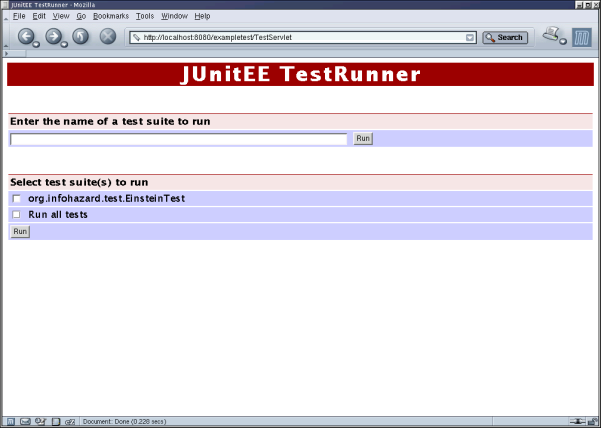
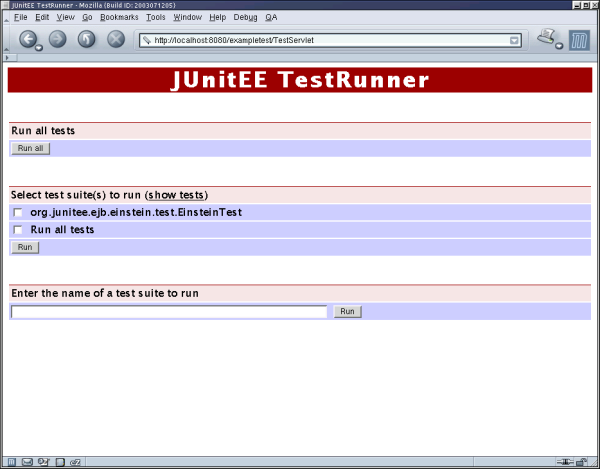
doc 1.7

Changed region(s): [[0.0, 0.0, 1.0, 1.0]]

diff --git a/JUnitEE/doc/index.html b/JUnitEE/doc/index.html
@@ -2,7 +2,7 @@
    "http://www.w3.org/TR/xhtml1/DTD/xhtml1-transitional.dtd">
 
 <!--
-	$Id: index.html,v 1.19 2003-07-05 13:50:01 o_rossmueller Exp $
+	$Id: index.html,v 1.20 2003-07-30 21:04:06 o_rossmueller Exp $
 	$Source: C:\Users\Orionll\Desktop\junitee-cvs/JUnitEE/doc/index.html,v $
 -->
 
@@ -19,7 +19,7 @@
       <tr><td colspan="3">
         <table cellspacing="0" cellpadding="0" width="100%">
           <tr> <td class="pageTitle"> JUnitEE </td> </tr>
-          <tr> <td align="right"> <small> $Revision: 1.19 $ </small> </td> </tr>
+          <tr> <td align="right"> <small> $Revision: 1.20 $ </small> </td> </tr>
         </table>
       </td></tr>
       <tr><td valign="top" align="left">
@@ -49,18 +49,16 @@
       </td><td>&nbsp;&nbsp;&nbsp;&nbsp;</td><td width="100%" valign="top">
 
 		<table cellspacing="0" cellpadding="0" width="100%">
-			<tr> <td class="sectionTitle">Release 1.6.6</td> </tr>
+			<tr> <td class="sectionTitle">Release 1.7</td> </tr>
 		</table>
 
     <p>
-		The current stable release is 1.6.6, available for <a href="http://sourceforge.net/project/showfiles.php?group_id=31476&release_id=152173"><img src="extlink.png" width="10" height="10" hspace="2" border="0" alt="external link">download</a>.
-		Changes since 1.6.5:
+		The current stable release is 1.7, available for <a href="http://sourceforge.net/project/showfiles.php?group_id=31476&release_id=174935"><img src="extlink.png" width="10" height="10" hspace="2" border="0" alt="external link">download</a>
+		at sourceforge.net. Changes since 1.6.6:
 			<ul>
-                <li>Fixed bug <a href="http://sourceforge.net/tracker/?func=detail&atid=402250&aid=719243&group_id=31476"><img src="extlink.png" width="10" height="10" hspace="2" border="0" alt="external link">719243</a></li>
-                <li>Changed html output charset to UTF-8 to support non-latin characters</li>
-                <li>Added interface RequiresDecoration to support test decoration (e.g. use of junit.extensions.TestSetup) when running single tests</li>
-                <li>Fixed NPE in case an AssertionFailedException is thrown in test setup</li>
-                <li>Switch to JUnit 3.8.1</li>
+    		    <li>Added 'Run all' button to test runner</li>
+                <li>Added 'show/hide tests' toggle to test runner</li>
+                <li>Fixed bug <a href="http://sourceforge.net/tracker/?func=detail&atid=402250&aid=771518&group_id=31476"><img src="extlink.png" width="10" height="10" hspace="2" border="0" alt="external link">771518</a></li>
 			</ul>
 		</p>
 

diff --git a/JUnitEE/doc/usersguide.html b/JUnitEE/doc/usersguide.html
@@ -2,7 +2,7 @@
    "http://www.w3.org/TR/xhtml1/DTD/xhtml1-transitional.dtd">
 
 <!--
-	$Id: usersguide.html,v 1.14 2003-07-19 22:07:19 o_rossmueller Exp $
+	$Id: usersguide.html,v 1.15 2003-07-30 21:04:06 o_rossmueller Exp $
 	$Source: C:\Users\Orionll\Desktop\junitee-cvs/JUnitEE/doc/usersguide.html,v $
 -->
 
@@ -18,7 +18,7 @@
       <tr><td colspan="3">
         <table cellspacing="0" cellpadding="0" width="100%">
           <tr> <td class="pageTitle"> JUnitEE </td> </tr>
-          <tr> <td align="right"> <small> $Revision: 1.14 $ </small> </td> </tr>
+          <tr> <td align="right"> <small> $Revision: 1.15 $ </small> </td> </tr>
         </table>
       </td></tr>
       <tr><td valign="top" align="left">
@@ -267,7 +267,7 @@ org.junitee.example.ComplexUnitTests</pre></code>
     <p>
     <table cellspacing="0" cellpadding="0" width="100%">
     <tr><td>&nbsp;</td></tr>
-    <tr><td width="100%" align="center"><img src="runner.png" widht="601" height="428" alt="Screenshot JUnitEE TestRunner"></td></tr>
+    <tr><td width="100%" align="center"><img src="runner.png" widht="600" height="469" alt="Screenshot JUnitEE TestRunner"></td></tr>
     <tr><td>&nbsp;</td></tr>
     </table>
     </p>
@@ -277,7 +277,23 @@ org.junitee.example.ComplexUnitTests</pre></code>
     servlet is configured for the <code>Smart Test Mode</code>).
     </p>
 
-    <p>After some time - it depends on how long your tests will run - your browser will display the test report generated by the JUnitEE TestRunner
+    <p>It is also possible to expand all the view to display all available tests. Use the link labeled &quot;show tests&quot;
+    to list all tests:
+    </p>
+
+    <p>
+    <table cellspacing="0" cellpadding="0" width="100%">
+    <tr><td>&nbsp;</td></tr>
+    <tr><td width="100%" align="center"><img src="runner_methods.png" widht="600" height="469" alt="Screenshot JUnitEE TestRunner"></td></tr>
+    <tr><td>&nbsp;</td></tr>
+    </table>
+    </p>
+
+    <p>Now it is possible to select a single test for execution. Use the link labeled &quot;hide tests&quot;
+    to toggle the view back to display test suites only.
+    </p>
+
+    <p>After some time - it depends on how long the selected tests will run - your browser will display the test report generated by the JUnitEE TestRunner
     like in this example:
     </p>
 

diff --git a/JUnitEE/doc/releasenotes.html b/JUnitEE/doc/releasenotes.html
@@ -2,7 +2,7 @@
    "http://www.w3.org/TR/xhtml1/DTD/xhtml1-transitional.dtd">
 
 <!--
-	$Id: releasenotes.html,v 1.8 2003-01-18 11:44:23 o_rossmueller Exp $
+	$Id: releasenotes.html,v 1.9 2003-07-30 21:04:06 o_rossmueller Exp $
 	$Source: C:\Users\Orionll\Desktop\junitee-cvs/JUnitEE/doc/releasenotes.html,v $
 -->
 
@@ -19,7 +19,7 @@
       <tr><td colspan="3">
         <table cellspacing="0" cellpadding="0" width="100%">
           <tr> <td class="pageTitle">JUnitEE</td> </tr>
-          <tr> <td align="right"> <small> $Revision: 1.8 $ </small> </td> </tr>
+          <tr> <td align="right"> <small> $Revision: 1.9 $ </small> </td> </tr>
         </table>
       </td></tr>
       <tr><td valign="top" align="left">
@@ -49,18 +49,20 @@
       </td><td>&nbsp;&nbsp;&nbsp;&nbsp;</td><td width="100%" valign="top">
 
 		<table cellspacing="0" cellpadding="0" width="100%">
-			<tr> <td class="documentTitle">Release Notes for JUnitEE 1.6.1</td> </tr>
+			<tr> <td class="documentTitle">Release Notes for JUnitEE 1.7</td> </tr>
 		</table>
 
 
       <table cellspacing="0" cellpadding="0" width="100%">
 	    <tr><td>&nbsp;</td></tr>
-	    <tr><td class="sectionTitle">Changes since release 1.6</td></tr>
+	    <tr><td class="sectionTitle">Changes since release 1.6.6</td></tr>
 		</table>
 
-		<p>The changes since release 1.6 are:
+		<p>The changes since release 1.6.6 are:
 		  <ul>
-			  <li>New resourceRef element available for the JUnitEEWar Ant task</li>
+		    <li>Added 'Run all' button to test runner</li>
+            <li>Added 'show/hide tests' toggle to test runner</li>
+            <li>Fixed bug <a href="http://sourceforge.net/tracker/?func=detail&atid=402250&aid=771518&group_id=31476"><img src="extlink.png" width="10" height="10" hspace="2" border="0" alt="external link">771518</a></li>
           </ul>
 		</p>
 

diff --git a/JUnitEE/doc/news.html b/JUnitEE/doc/news.html
@@ -2,7 +2,7 @@
    "http://www.w3.org/TR/xhtml1/DTD/xhtml1-transitional.dtd">
 
 <!--
-	$Id: news.html,v 1.11 2003-03-16 12:50:19 o_rossmueller Exp $
+	$Id: news.html,v 1.12 2003-07-30 21:04:06 o_rossmueller Exp $
 	$Source: C:\Users\Orionll\Desktop\junitee-cvs/JUnitEE/doc/news.html,v $
 -->
 
@@ -19,7 +19,7 @@
       <tr><td colspan="3">
         <table cellspacing="0" cellpadding="0" width="100%">
           <tr> <td class="pageTitle">JUnitEE</td> </tr>
-          <tr> <td align="right"> <small> $Revision: 1.11 $ </small> </td> </tr>
+          <tr> <td align="right"> <small> $Revision: 1.12 $ </small> </td> </tr>
         </table>
       </td></tr>
       <tr><td valign="top" align="left">
@@ -51,6 +51,21 @@
 		<table cellspacing="0" cellpadding="0" width="100%">
 			<tr> <td class="documentTitle">News</td> </tr>
 		</table>
+
+
+		<p style="color: blue">
+			<b> 30 July 2003 - Release 1.7 </b>
+        </p>
+        <p>
+		    <li>Added 'Run all' button to test runner</li>
+                <li>Added 'show/hide tests' toggle to test runner</li>
+                <li>Fixed bug <a href="http://sourceforge.net/tracker/?func=detail&atid=402250&aid=771518&group_id=31476"><img src="extlink.png" width="10" height="10" hspace="2" border="0" alt="external link">771518</a></li>
+	        
+        </p>
+
+		<p style="color: blue">
+			<b> 5 July 2003 - Release 1.6.6 </b>
+        </p>
 
 		<p style="color: blue">
 			<b> 18 March 2003 - Release 1.6.5 </b>
